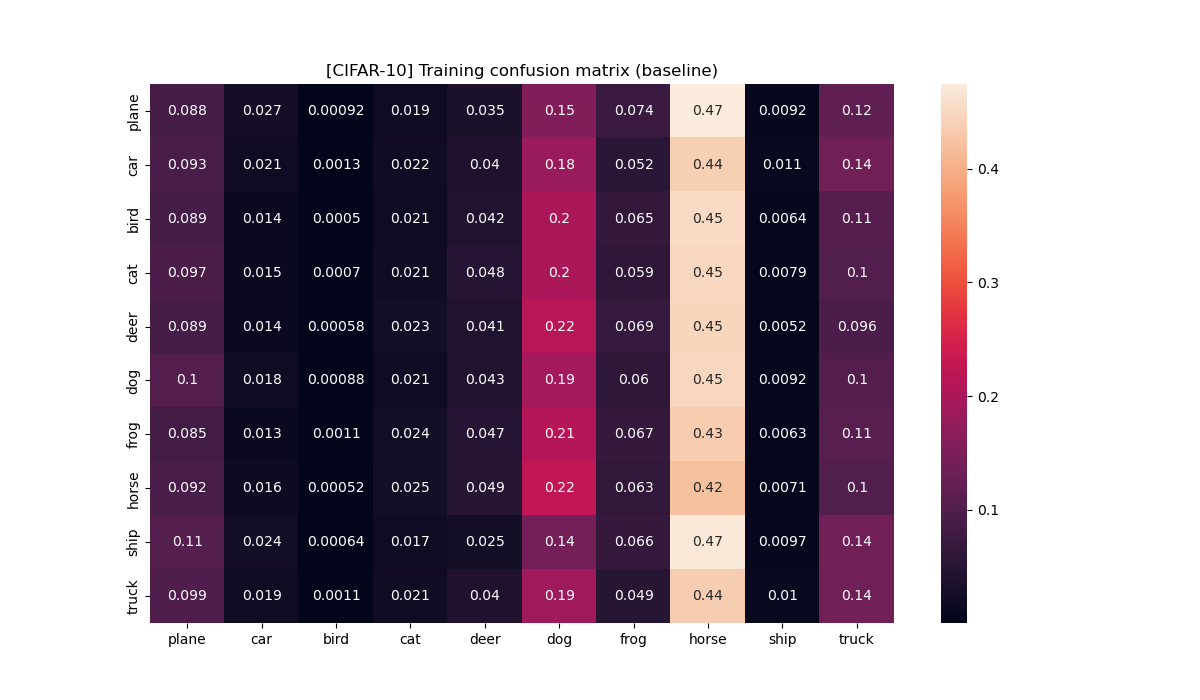
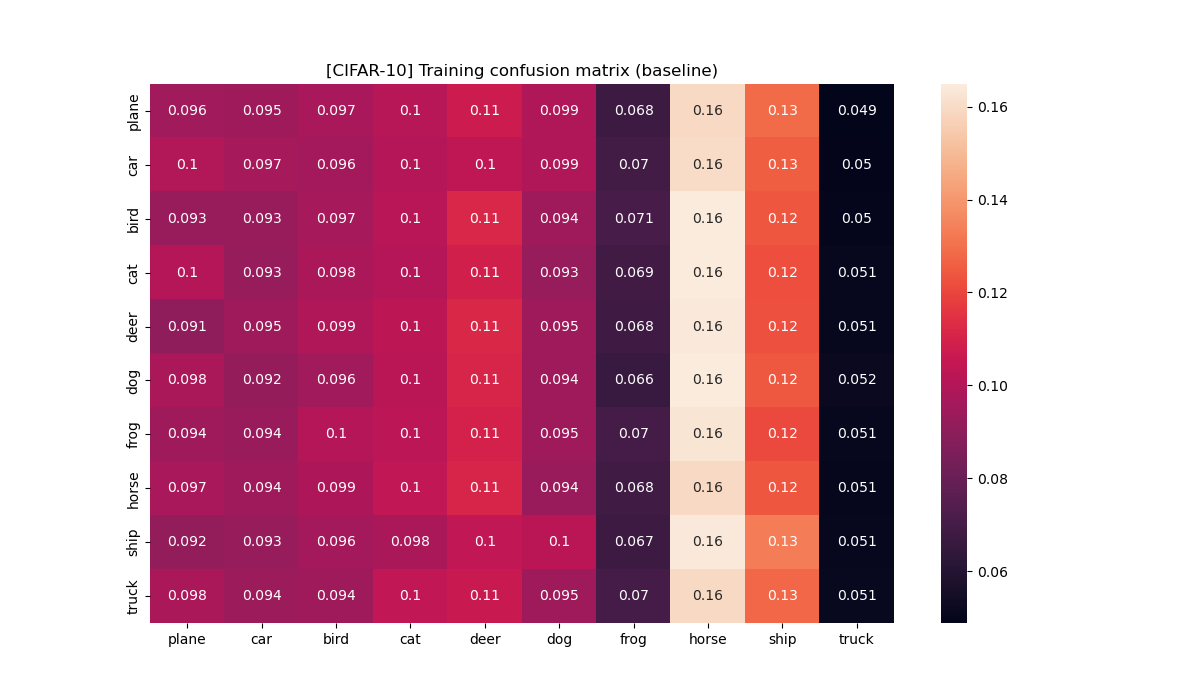
update training matrix scripts for mini-imagenet and cifar10

diff --git a/miniimagenet/training_confusion_mtx.py b/miniimagenet/training_confusion_mtx.py
@@ -1,9 +1,4 @@
-#-------------------------------------
-# Project: Learning to Compare: Relation Network for Few-Shot Learning
-# Date: 2017.9.21
-# Author: Flood Sung
-# All Rights Reserved
-#-------------------------------------
+# **Credit:** https://christianbernecker.medium.com/how-to-create-a-confusion-matrix-in-pytorch-38d06a7f04b7
 
 import torch
 import torch.nn as nn
@@ -11,14 +6,13 @@ import torch.nn.functional as F
 from torch.autograd import Variable
 from torch.optim.lr_scheduler import StepLR
 import numpy as np
+import task_generator_test as tg
 import os
 import math
 import argparse
 import scipy as sp
 import scipy.stats
 
-import torchvision
-import torchvision.transforms as transforms
 from sklearn.metrics import confusion_matrix
 import seaborn as sn
 import pandas as pd
@@ -27,27 +21,28 @@ import matplotlib.pyplot as plt
 parser = argparse.ArgumentParser(description="One Shot Visual Recognition")
 parser.add_argument("-f","--feature_dim",type = int, default = 64)
 parser.add_argument("-r","--relation_dim",type = int, default = 8)
-parser.add_argument("-w","--class_num",type = int, default = 10)
+parser.add_argument("-w","--class_num",type = int, default = 5)
 parser.add_argument("-s","--sample_num_per_class",type = int, default = 5)
-parser.add_argument("-b","--batch_num_per_class",type = int, default = 15)
+parser.add_argument("-b","--batch_num_per_class",type = int, default = 10)
 parser.add_argument("-e","--episode",type = int, default= 10)
+parser.add_argument("-t","--test_episode", type = int, default = 10)
 parser.add_argument("-l","--learning_rate", type = float, default = 0.001)
 parser.add_argument("-g","--gpu",type=int, default=0)
 parser.add_argument("-u","--hidden_unit",type=int,default=10)
 args = parser.parse_args()
+
 
 # Hyper Parameters
 FEATURE_DIM = args.feature_dim
 RELATION_DIM = args.relation_dim
 CLASS_NUM = args.class_num
 SAMPLE_NUM_PER_CLASS = args.sample_num_per_class
-TEST_NUM_PER_CLASS = args.batch_num_per_class
+BATCH_NUM_PER_CLASS = args.batch_num_per_class
 EPISODE = args.episode
-TEST_EPISODE = 10
+TEST_EPISODE = args.test_episode
 LEARNING_RATE = args.learning_rate
 GPU = args.gpu
 HIDDEN_UNIT = args.hidden_unit
-
 
 def mean_confidence_interval(data, confidence=0.95):
     a = 1.0*np.array(data)
@@ -61,17 +56,17 @@ class CNNEncoder(nn.Module):
     def __init__(self):
         super(CNNEncoder, self).__init__()
         self.layer1 = nn.Sequential(
-                        nn.Conv2d(3,64,kernel_size=3,padding=1),
+                        nn.Conv2d(3,64,kernel_size=3,padding=0),
                         nn.BatchNorm2d(64, momentum=1, affine=True),
                         nn.ReLU(),
                         nn.MaxPool2d(2))
         self.layer2 = nn.Sequential(
-                        nn.Conv2d(64,64,kernel_size=3,padding=1),
+                        nn.Conv2d(64,64,kernel_size=3,padding=0),
                         nn.BatchNorm2d(64, momentum=1, affine=True),
                         nn.ReLU(),
                         nn.MaxPool2d(2))
         self.layer3 = nn.Sequential(
-                        nn.Conv2d(64,64,kernel_size=3,padding=1),
+                        nn.Conv2d(64,64,kernel_size=3, padding=1),
                         nn.BatchNorm2d(64, momentum=1, affine=True),
                         nn.ReLU())
         self.layer4 = nn.Sequential(
@@ -84,26 +79,25 @@ class CNNEncoder(nn.Module):
         out = self.layer2(out)
         out = self.layer3(out)
         out = self.layer4(out)
-        return out
+        #out = out.view(out.size(0),-1)
+        return out # 64
 
 class L2RelationNetwork(nn.Module):
-    """RelationNetwork"""
+    """docstring for RelationNetwork"""
     def __init__(self,input_size,hidden_size):
         super(L2RelationNetwork, self).__init__()
         self.layer1 = nn.Sequential(
-                        nn.Conv2d(64*2,64,kernel_size=3,padding=1),
+                        nn.Conv2d(64*2,64,kernel_size=3,padding=0),
                         nn.BatchNorm2d(64, momentum=1, affine=True),
                         nn.ReLU(),
-                        nn.MaxPool2d(2)
-                        )
+                        nn.MaxPool2d(2))
         self.layer2 = nn.Sequential(
-                        nn.Conv2d(64,64,kernel_size=3,padding=1),
+                        nn.Conv2d(64,64,kernel_size=3,padding=0),
                         nn.BatchNorm2d(64, momentum=1, affine=True),
                         nn.ReLU(),
-                        nn.MaxPool2d(2)
-                        )
+                        nn.MaxPool2d(2))
         self.dropout = nn.Dropout(0.2)
-        self.fc1 = nn.Linear(input_size*2*2,hidden_size)
+        self.fc1 = nn.Linear(input_size*3*3,hidden_size)
         self.fc2 = nn.Linear(hidden_size,1)
 
     def forward(self,x):
@@ -112,26 +106,24 @@ class L2RelationNetwork(nn.Module):
         out = self.dropout(out)
         out = out.view(out.size(0),-1)
         out = F.relu(self.fc1(out))
-        out = torch.sigmoid(self.fc2(out))  # torch.nn.functional.sigmoid is deprecated
+        out = torch.sigmoid(self.fc2(out))
         return out
 
 class RelationNetwork(nn.Module):
-    """RelationNetwork"""
+    """docstring for RelationNetwork"""
     def __init__(self,input_size,hidden_size):
         super(RelationNetwork, self).__init__()
         self.layer1 = nn.Sequential(
-                        nn.Conv2d(64*2,64,kernel_size=3,padding=1),
+                        nn.Conv2d(64*2,64,kernel_size=3,padding=0),
                         nn.BatchNorm2d(64, momentum=1, affine=True),
                         nn.ReLU(),
-                        nn.MaxPool2d(2)
-                        )
+                        nn.MaxPool2d(2))
         self.layer2 = nn.Sequential(
-                        nn.Conv2d(64,64,kernel_size=3,padding=1),
+                        nn.Conv2d(64,64,kernel_size=3,padding=0),
                         nn.BatchNorm2d(64, momentum=1, affine=True),
                         nn.ReLU(),
-                        nn.MaxPool2d(2)
-                        )
-        self.fc1 = nn.Linear(input_size*2*2,hidden_size)
+                        nn.MaxPool2d(2))
+        self.fc1 = nn.Linear(input_size*3*3,hidden_size)
         self.fc2 = nn.Linear(hidden_size,1)
 
     def forward(self,x):
@@ -139,9 +131,9 @@ class RelationNetwork(nn.Module):
         out = self.layer2(out)
         out = out.view(out.size(0),-1)
         out = F.relu(self.fc1(out))
-        out = torch.sigmoid(self.fc2(out))  # torch.nn.functional.sigmoid is deprecated
+        out = torch.sigmoid(self.fc2(out))
         return out
-    
+
 def weights_init(m):
     classname = m.__class__.__name__
     if classname.find('Conv') != -1:
@@ -158,72 +150,60 @@ def weights_init(m):
         m.bias.data = torch.ones(m.bias.data.size())
 
 def main():
-    transform = transforms.Compose(
-        [transforms.ToTensor(),
-        transforms.Normalize((0.5, 0.5, 0.5), (0.5, 0.5, 0.5))])
+    # Step 1: init data folders
+    print("init data folders")
+    # init character folders for dataset construction
+    metatrain_folders,metatest_folders = tg.mini_imagenet_folders()
 
-    trainset = torchvision.datasets.CIFAR10(root='./data', train=True,
-                                            download=True, transform=transform)
-    trainloader = torch.utils.data.DataLoader(trainset, batch_size=CLASS_NUM*SAMPLE_NUM_PER_CLASS,
-                                            shuffle=True, num_workers=2)
-
-    #testset = torchvision.datasets.CIFAR10(root='./data', train=False,
-    #                                    download=True, transform=transform)
-    #testloader = torch.utils.data.DataLoader(testset, batch_size=CLASS_NUM*TEST_NUM_PER_CLASS,
-    #                                        shuffle=True, num_workers=2)
-    classes = ('plane', 'car', 'bird', 'cat',
-           'deer', 'dog', 'frog', 'horse', 'ship', 'truck')
-
-
-    ## Test L2 Version
-    print("Testing with L2 regularization and dropout")
+    # Step 2: init neural networks
+    print("init neural networks")
 
     l2_feature_encoder = CNNEncoder()
     l2_relation_network = L2RelationNetwork(FEATURE_DIM,RELATION_DIM)
 
+
     l2_feature_encoder.cuda(GPU)
     l2_relation_network.cuda(GPU)
 
-    filename_encoder = f"./models/l2norm_cifar10_feature_encoder_{CLASS_NUM}way_{SAMPLE_NUM_PER_CLASS}shot.pkl"
-    filename_network = f"./models/l2norm_cifar10_relation_network_{CLASS_NUM}way_{SAMPLE_NUM_PER_CLASS}shot.pkl"
-
-    if os.path.exists(filename_encoder): 
-        l2_feature_encoder.load_state_dict(torch.load(filename_encoder))
+    if os.path.exists(str("./models/l2norm_feature_encoder_" + str(CLASS_NUM) +"way_" + str(SAMPLE_NUM_PER_CLASS) +"shot.pkl")):
+        l2_feature_encoder.load_state_dict(torch.load(str("./models/l2norm_feature_encoder_" + str(CLASS_NUM) +"way_" + str(SAMPLE_NUM_PER_CLASS) +"shot.pkl")))
         print("load feature encoder success")
-    if os.path.exists(filename_network):
-        l2_relation_network.load_state_dict(torch.load(filename_network))
+    if os.path.exists(str("./models/l2norm_relation_network_"+ str(CLASS_NUM) +"way_" + str(SAMPLE_NUM_PER_CLASS) +"shot.pkl")):
+        l2_relation_network.load_state_dict(torch.load(str("./models/l2norm_relation_network_"+ str(CLASS_NUM) +"way_" + str(SAMPLE_NUM_PER_CLASS) +"shot.pkl")))
         print("load relation network success")
 
     y_true = []
     y_pred = []
+
     for _ in range(TEST_EPISODE):
+        task = tg.MiniImagenetTask(metatest_folders,CLASS_NUM,SAMPLE_NUM_PER_CLASS,15)
+        sample_dataloader = tg.get_mini_imagenet_data_loader(task,num_per_class=SAMPLE_NUM_PER_CLASS,split="train",shuffle=True)
+        num_per_class = 5
+        train_dataloader = tg.get_mini_imagenet_data_loader(task,num_per_class=num_per_class,split="train",shuffle=True)
 
         # kmanakk1 - change how we get samples for compatability with pytorch 1.7
-        sample_iterator = iter(trainloader)
+        sample_iterator = iter(sample_dataloader)
         sample_images,sample_labels = next(sample_iterator)
 
-        for train_images,train_labels in trainloader:
-            batch_size = train_labels.shape[0]
+        for test_images,test_labels in train_dataloader:
+            batch_size = test_labels.shape[0]
             # calculate features
             sample_features = l2_feature_encoder(Variable(sample_images).cuda(GPU)) # 5x64
-            sample_features = sample_features.view(CLASS_NUM,SAMPLE_NUM_PER_CLASS,FEATURE_DIM,8,8)
+            sample_features = sample_features.view(CLASS_NUM,SAMPLE_NUM_PER_CLASS,FEATURE_DIM,19,19)
             sample_features = torch.sum(sample_features,1).squeeze(1)
-            train_features = l2_feature_encoder(Variable(train_images).cuda(GPU)) # 20x64
+            test_features = l2_feature_encoder(Variable(test_images).cuda(GPU)) # 20x64
 
             # calculate relations
-            # each batch sample link to every samples to calculate relations
-            # to form a 100x128 matrix for relation network
             sample_features_ext = sample_features.unsqueeze(0).repeat(batch_size,1,1,1,1)
-
-            train_features_ext = train_features.unsqueeze(0).repeat(1*CLASS_NUM,1,1,1,1)
-            train_features_ext = torch.transpose(train_features_ext,0,1)
-            relation_pairs = torch.cat((sample_features_ext,train_features_ext),2).view(-1,FEATURE_DIM*2,8,8)
+            test_features_ext = test_features.unsqueeze(0).repeat(1*CLASS_NUM,1,1,1,1)
+            test_features_ext = torch.transpose(test_features_ext,0,1)
+            relation_pairs = torch.cat((sample_features_ext,test_features_ext),2).view(-1,FEATURE_DIM*2,19,19)
             relations = l2_relation_network(relation_pairs).view(-1,CLASS_NUM)
 
             _,predict_labels = torch.max(relations.data,1)
 
             # save outputs and truth
-            y_true.extend(train_labels.to("cpu"))
+            y_true.extend(test_labels.to("cpu"))
             y_pred.extend(predict_labels.to("cpu"))
 
     # calculate accuracy
@@ -233,62 +213,60 @@ def main():
     
     # make confusion matrix
     cf_mtx = confusion_matrix(y_true, y_pred)
-    df = pd.DataFrame(cf_mtx / np.sum(cf_mtx, axis=1)[:, None], index = [i for i in classes],
-                     columns = [i for i in classes])
+    df = pd.DataFrame(cf_mtx / np.sum(cf_mtx, axis=1)[:, None], index = [i for i in range(CLASS_NUM)],
+                     columns = [i for i in range(CLASS_NUM)])
     
     plt.figure(figsize = (12,7))
     sn.heatmap(df, annot=True)
     if not os.path.exists('images'): os.makedirs('images')
-    plt.title("[CIFAR-10] Training confusion matrix (with L2 and dropout)")
-    plt.savefig('images/train_l2norm_confusion_mtx.png')
+    plt.title('[mini-imagenet] Train set confusion matrix (with L2 and dropout)')
+    plt.savefig('images/training_l2norm_confusion_mtx.png')
 
-    ## Test Normal version of CIFAR model
+    ##### Regular net
     feature_encoder = CNNEncoder()
-    relation_network = L2RelationNetwork(FEATURE_DIM,RELATION_DIM)
-
+    relation_network = RelationNetwork(FEATURE_DIM,RELATION_DIM)
     feature_encoder.cuda(GPU)
     relation_network.cuda(GPU)
 
-    filename_encoder = f"./models/cifar10_feature_encoder_{CLASS_NUM}way_{SAMPLE_NUM_PER_CLASS}shot.pkl"
-    filename_network = f"./models/cifar10_relation_network_{CLASS_NUM}way_{SAMPLE_NUM_PER_CLASS}shot.pkl"
-
-    if os.path.exists(filename_encoder): 
-        l2_feature_encoder.load_state_dict(torch.load(filename_encoder))
+    if os.path.exists(str("./models/miniimagenet_feature_encoder_" + str(CLASS_NUM) +"way_" + str(SAMPLE_NUM_PER_CLASS) +"shot.pkl")):
+        feature_encoder.load_state_dict(torch.load(str("./models/miniimagenet_feature_encoder_" + str(CLASS_NUM) +"way_" + str(SAMPLE_NUM_PER_CLASS) +"shot.pkl")))
         print("load feature encoder success")
-    if os.path.exists(filename_network):
-        l2_relation_network.load_state_dict(torch.load(filename_network))
+    if os.path.exists(str("./models/miniimagenet_relation_network_"+ str(CLASS_NUM) +"way_" + str(SAMPLE_NUM_PER_CLASS) +"shot.pkl")):
+        relation_network.load_state_dict(torch.load(str("./models/miniimagenet_relation_network_"+ str(CLASS_NUM) +"way_" + str(SAMPLE_NUM_PER_CLASS) +"shot.pkl")))
         print("load relation network success")
 
     y_true = []
     y_pred = []
+
     for _ in range(TEST_EPISODE):
+        task = tg.MiniImagenetTask(metatest_folders,CLASS_NUM,SAMPLE_NUM_PER_CLASS,15)
+        sample_dataloader = tg.get_mini_imagenet_data_loader(task,num_per_class=SAMPLE_NUM_PER_CLASS,split="train",shuffle=False)
+        num_per_class = 5
+        train_dataloader = tg.get_mini_imagenet_data_loader(task,num_per_class=num_per_class,split="train",shuffle=False)
 
         # kmanakk1 - change how we get samples for compatability with pytorch 1.7
-        sample_iterator = iter(trainloader)
+        sample_iterator = iter(sample_dataloader)
         sample_images,sample_labels = next(sample_iterator)
 
-        for train_images,train_labels in trainloader:
-            batch_size = train_labels.shape[0]
+        for test_images,test_labels in train_dataloader:
+            batch_size = test_labels.shape[0]
             # calculate features
             sample_features = feature_encoder(Variable(sample_images).cuda(GPU)) # 5x64
-            sample_features = sample_features.view(CLASS_NUM,SAMPLE_NUM_PER_CLASS,FEATURE_DIM,8,8)
+            sample_features = sample_features.view(CLASS_NUM,SAMPLE_NUM_PER_CLASS,FEATURE_DIM,19,19)
             sample_features = torch.sum(sample_features,1).squeeze(1)
-            train_features = feature_encoder(Variable(train_images).cuda(GPU)) # 20x64
+            test_features = feature_encoder(Variable(test_images).cuda(GPU)) # 20x64
 
             # calculate relations
-            # each batch sample link to every samples to calculate relations
-            # to form a 100x128 matrix for relation network
             sample_features_ext = sample_features.unsqueeze(0).repeat(batch_size,1,1,1,1)
-
-            train_features_ext = train_features.unsqueeze(0).repeat(1*CLASS_NUM,1,1,1,1)
-            train_features_ext = torch.transpose(train_features_ext,0,1)
-            relation_pairs = torch.cat((sample_features_ext,train_features_ext),2).view(-1,FEATURE_DIM*2,8,8)
+            test_features_ext = test_features.unsqueeze(0).repeat(1*CLASS_NUM,1,1,1,1)
+            test_features_ext = torch.transpose(test_features_ext,0,1)
+            relation_pairs = torch.cat((sample_features_ext,test_features_ext),2).view(-1,FEATURE_DIM*2,19,19)
             relations = relation_network(relation_pairs).view(-1,CLASS_NUM)
 
             _,predict_labels = torch.max(relations.data,1)
 
             # save outputs and truth
-            y_true.extend(train_labels.to("cpu"))
+            y_true.extend(test_labels.to("cpu"))
             y_pred.extend(predict_labels.to("cpu"))
 
     # calculate accuracy
@@ -298,13 +276,14 @@ def main():
     
     # make confusion matrix
     cf_mtx = confusion_matrix(y_true, y_pred)
-    df = pd.DataFrame(cf_mtx / np.sum(cf_mtx, axis=1)[:, None], index = [i for i in classes],
-                     columns = [i for i in classes])
+    df = pd.DataFrame(cf_mtx / np.sum(cf_mtx, axis=1)[:, None], index = [i for i in range(CLASS_NUM)],
+                     columns = [i for i in range(CLASS_NUM)])
     
     plt.figure(figsize = (12,7))
     sn.heatmap(df, annot=True)
     if not os.path.exists('images'): os.makedirs('images')
-    plt.title("[CIFAR-10] Training confusion matrix (baseline)")
-    plt.savefig('images/train_confusion_mtx.png')
+    plt.title('[mini-imagenet] Train set confusion matrix (with L2 and dropout)')
+    plt.savefig('images/training_confusion_mtx.png')
+
 if __name__ == '__main__':
     main()

diff --git a/README.md b/README.md
@@ -30,6 +30,10 @@ Then view cifar10/logs/... and miniimagenet/logs/... to see results
 $ cd miniimagenet
 $ python3 l2norm_confusion_mtx.py
 $ python3 miniimagenet_confusion_mtx.py
+$ python3 training_confusion_mtx.py
+
+$ cd ../cifar-10
+$ python3 training_confusion_mtx.py
 ```
 The resultant images will be output to miniimagenet/images/
 For the CIFAR-10 models, the procedure is similar, but I combined the confusion matrix and test scripts, so running ./Test.sh produces the confusion matricies.
